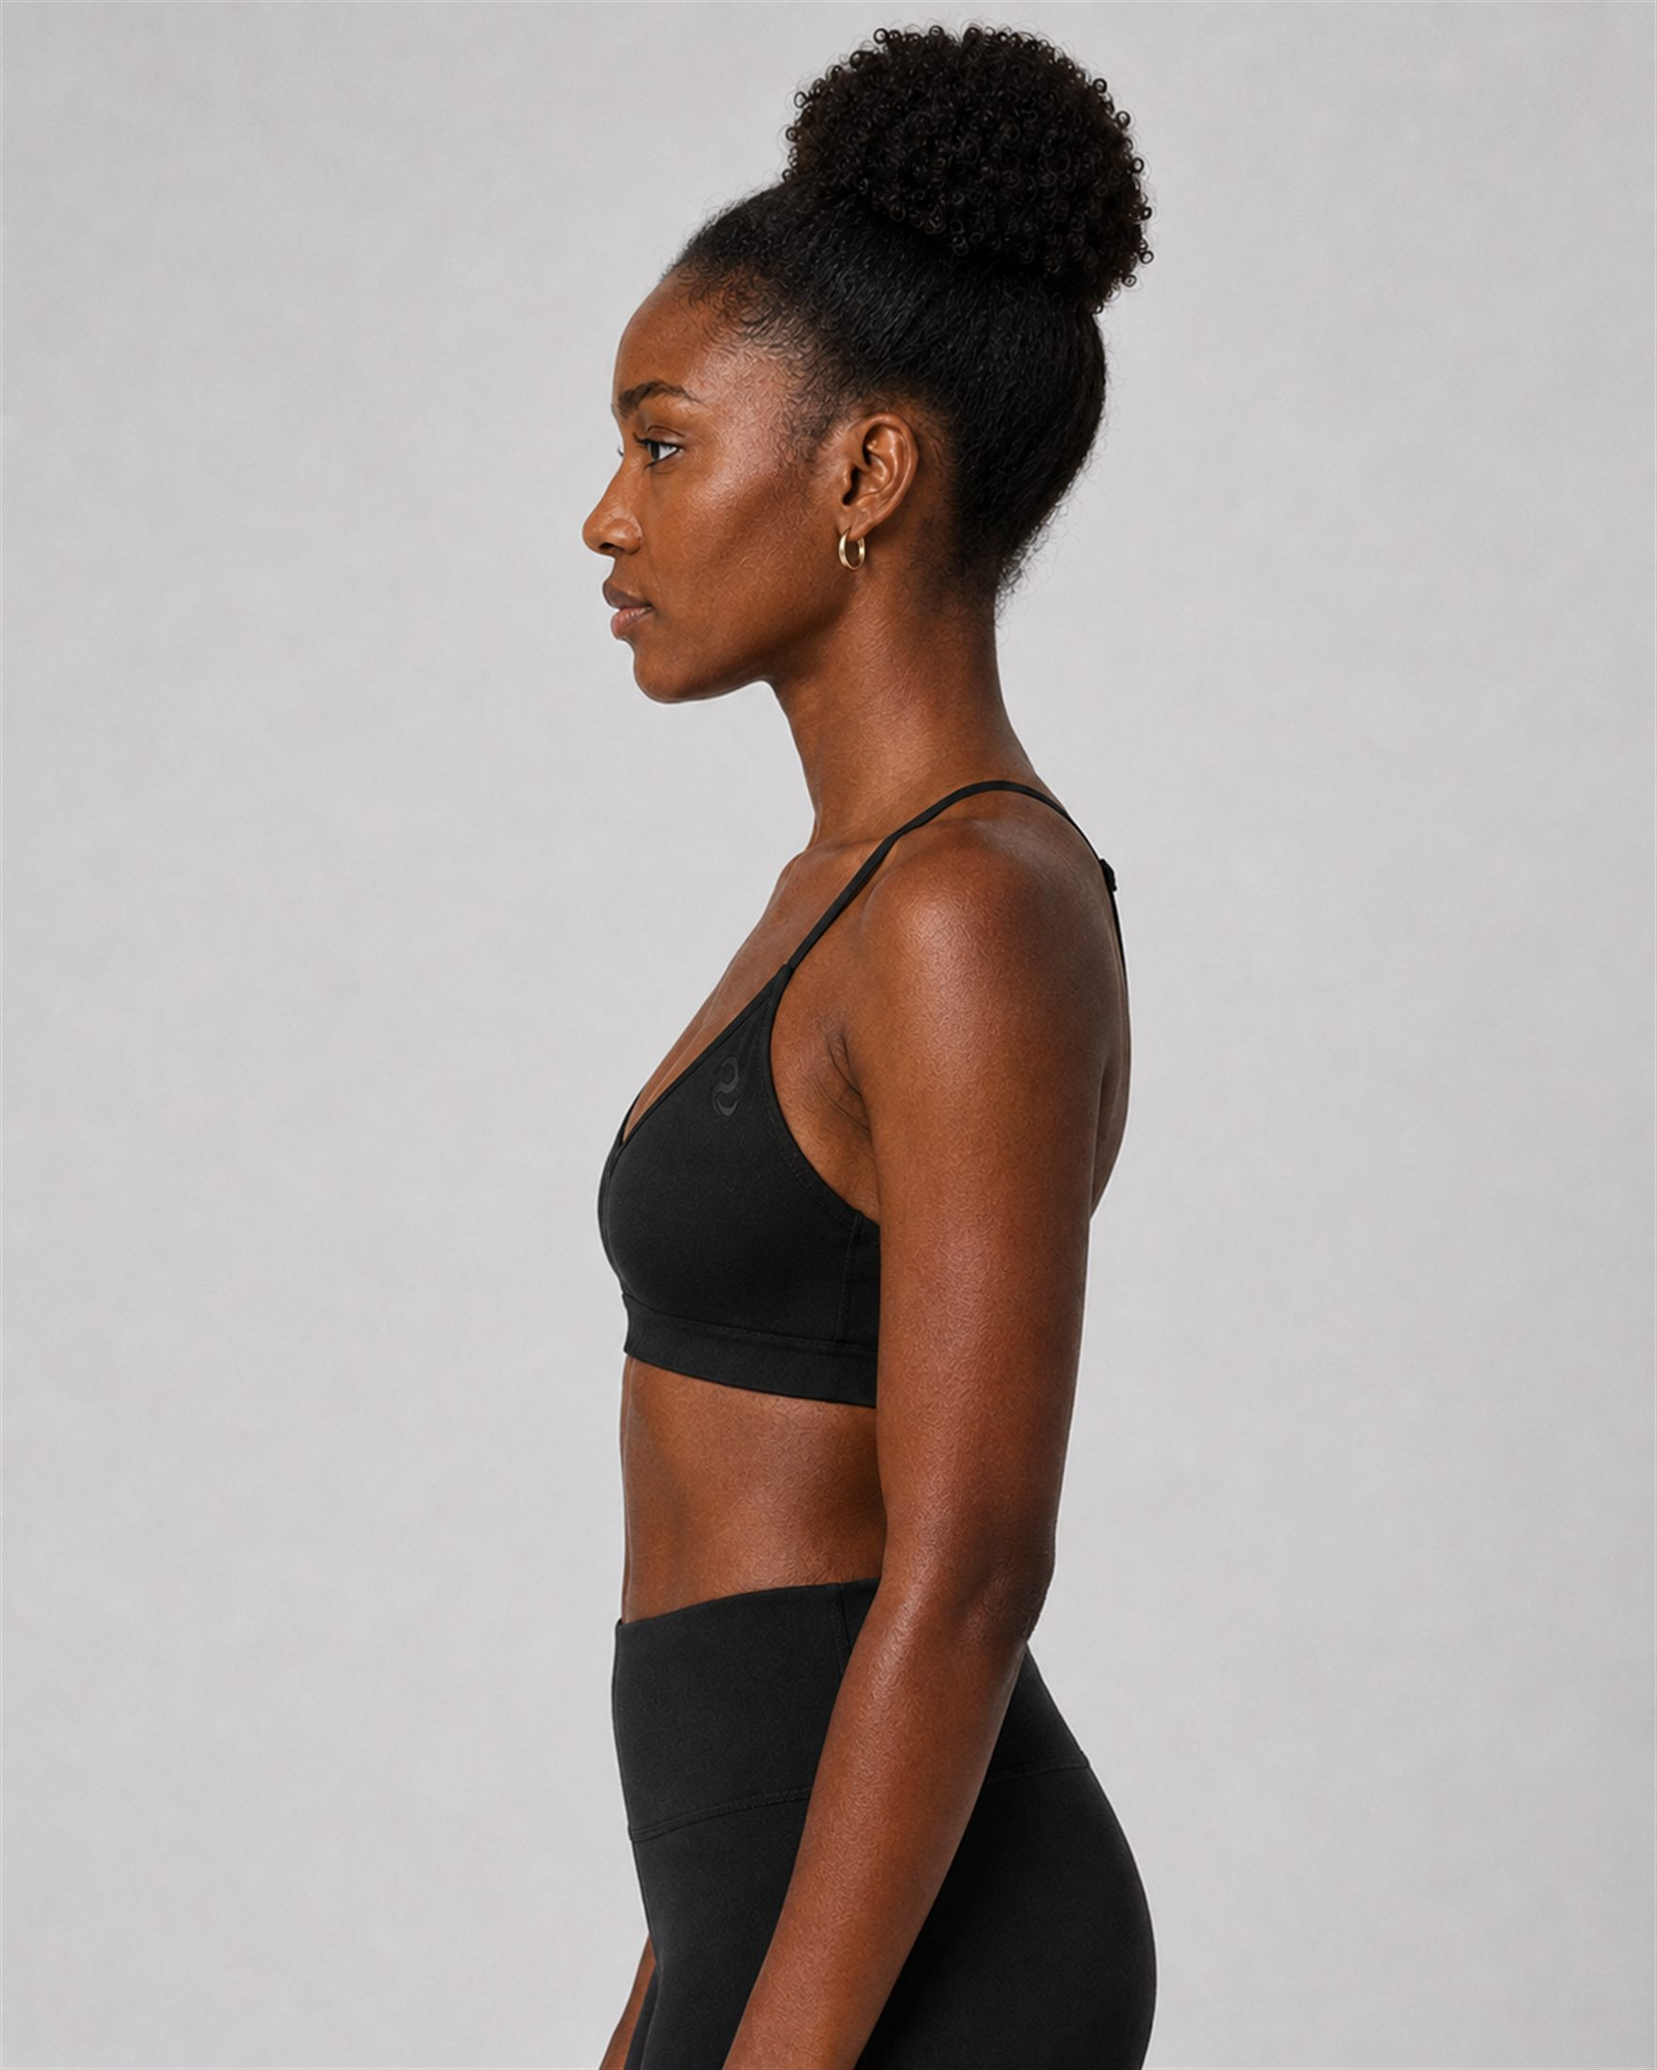
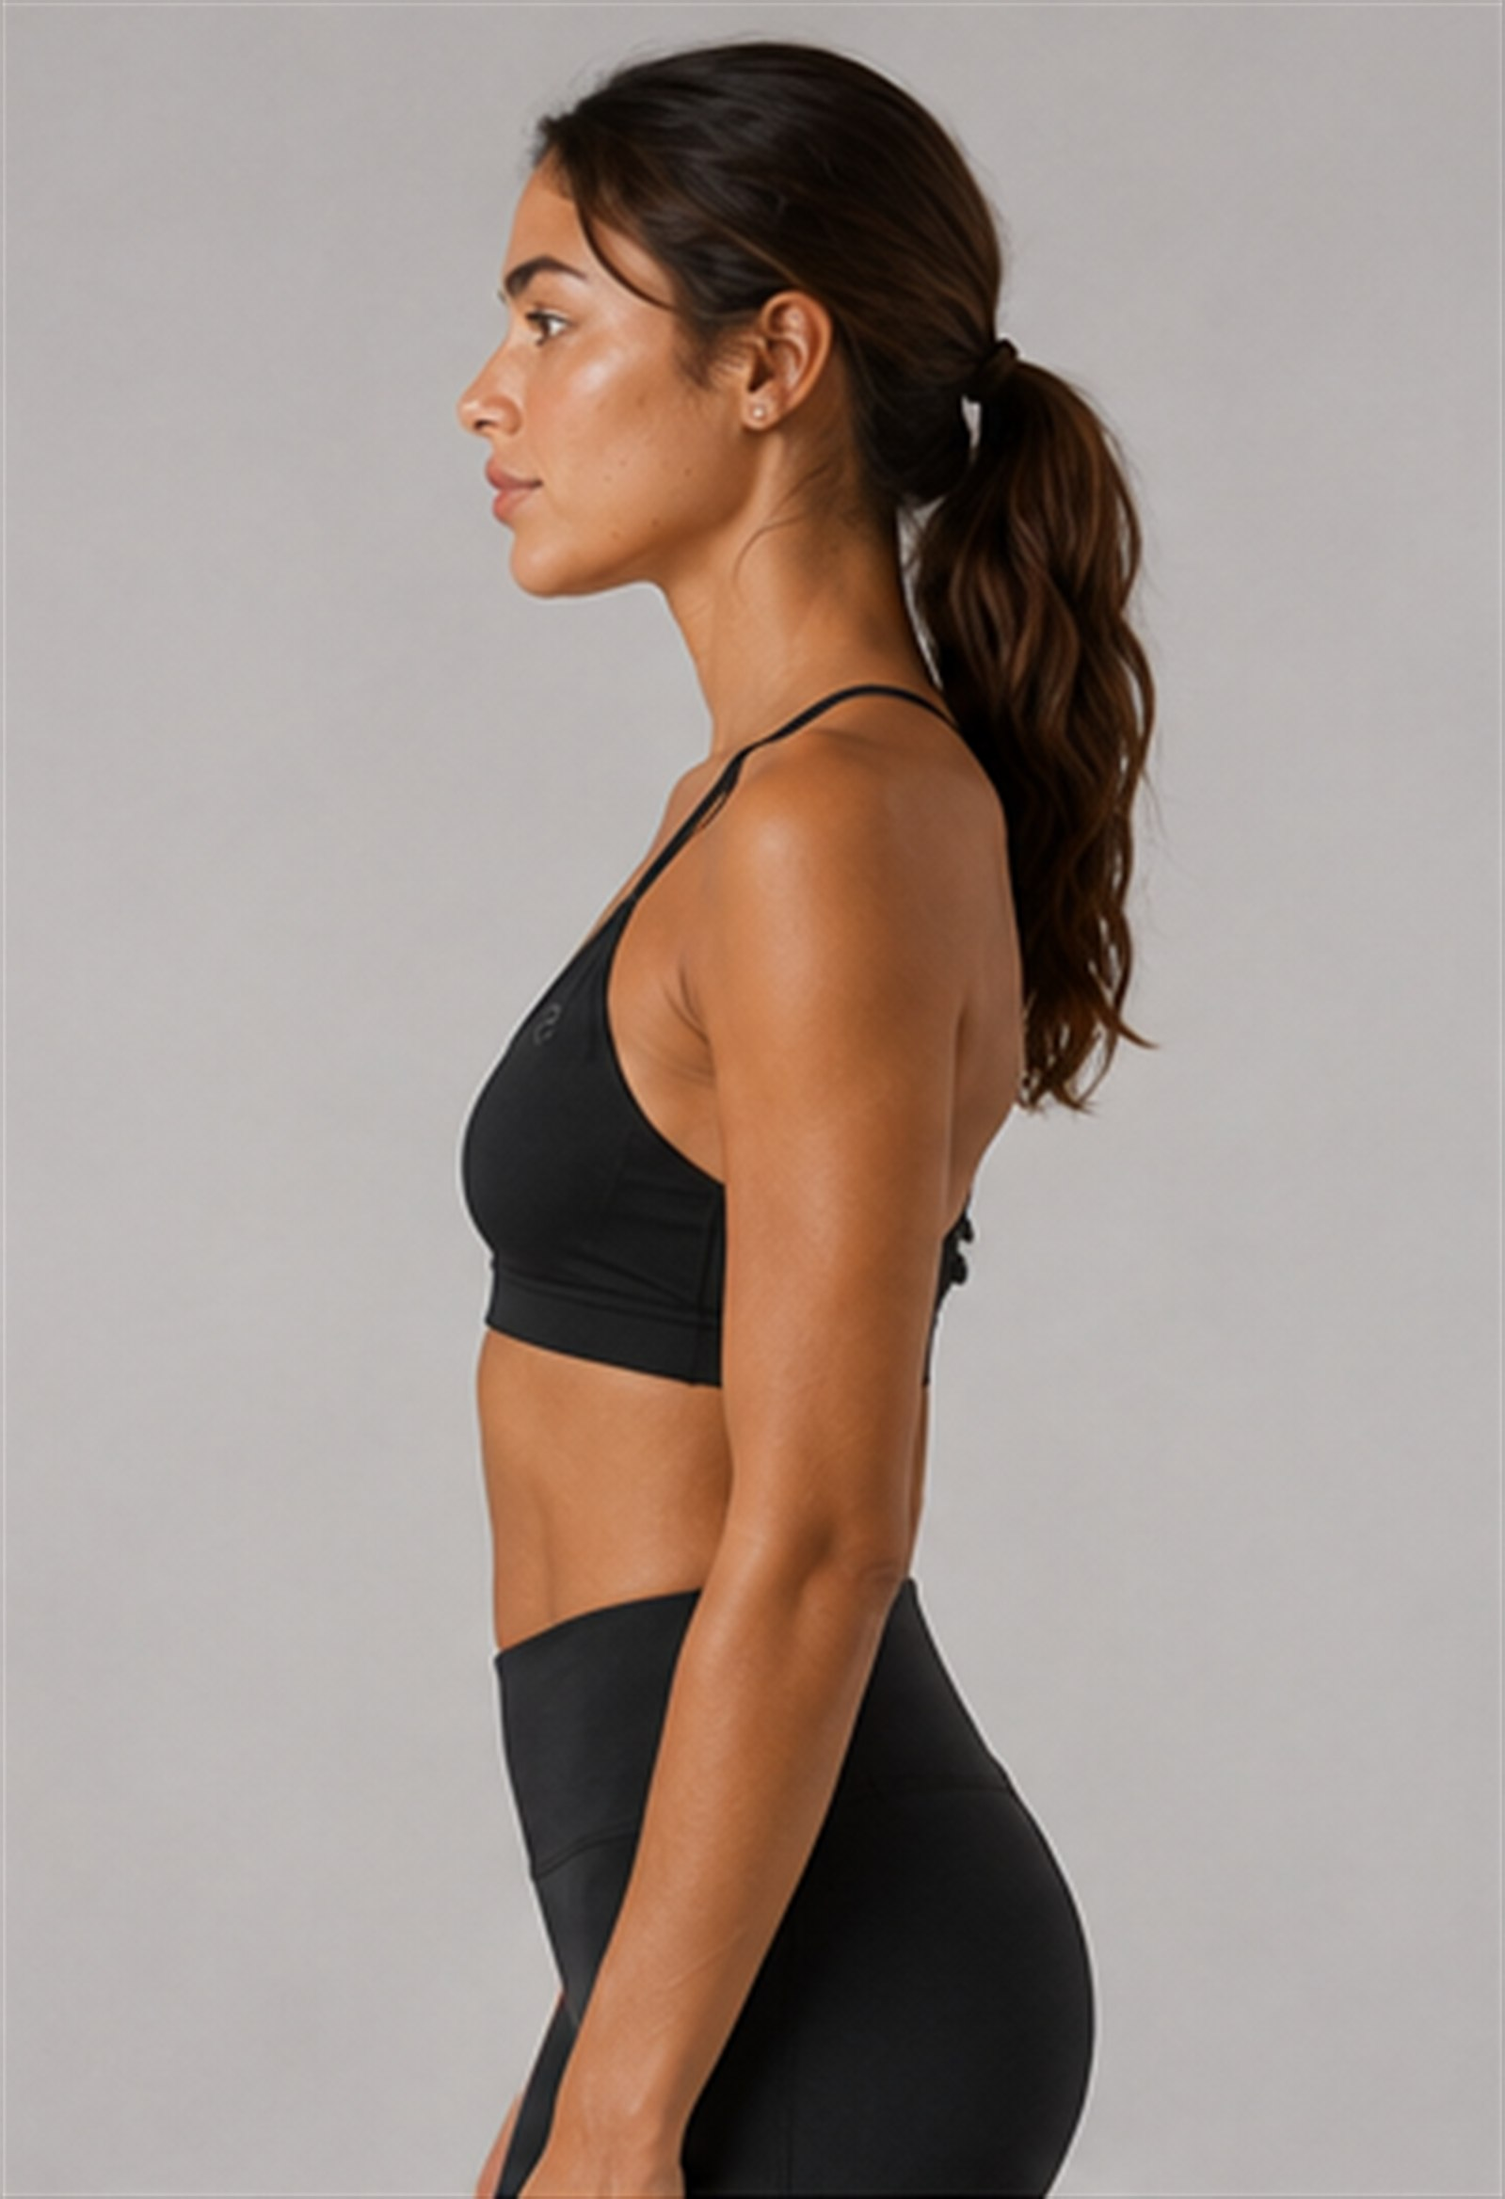
Low Impact Bra new final photos (4 views) + remove gender badges from shop grid
- Low Impact Bra: new final set, added front-angle view (front/front-angle/side/back)
- Removed Women's/Men's/Unisex pill badges from all 13 product cards

diff --git a/collections.html b/collections.html
@@ -137,7 +137,6 @@
         <div class="relative" style="aspect-ratio:3/4;overflow:hidden;background:#f3f4f6;">
           <img src="images/jacket-w.jpg" alt="Women's Jacket" style="width:100%;height:100%;object-fit:cover;object-position:center;display:block;">
           <img src="images/jacket-w-front-angle.jpg" alt="" aria-hidden="true" class="card-hover-img">
-          <span style="position:absolute;top:12px;left:12px;background:rgba(255,255,255,.9);color:#374151;font-size:11px;font-weight:500;padding:3px 8px;border-radius:20px">Women's</span>
         </div>
         <div class="p-4">
           <p class="text-base font-semibold text-black mt-0.5">Jacket</p>
@@ -164,7 +163,6 @@
       <div class="prod-card fu d1" data-gender="men">
         <div class="relative" style="aspect-ratio:3/4;overflow:hidden;background:#f3f4f6;">
           <img src="images/quarter-zip-m.jpg" alt="Men's Quarter Zip" style="width:100%;height:100%;object-fit:cover;object-position:center;display:block;">
-          <span style="position:absolute;top:12px;left:12px;background:rgba(255,255,255,.9);color:#374151;font-size:11px;font-weight:500;padding:3px 8px;border-radius:20px">Men's</span>
         </div>
         <div class="p-4">
           <p class="text-base font-semibold text-black mt-0.5">Quarter Zip</p>
@@ -192,7 +190,6 @@
         <div class="relative" style="aspect-ratio:3/4;overflow:hidden;background:#f3f4f6;">
           <img src="images/tshirt-w.jpg" alt="Women's T-Shirt" style="width:100%;height:100%;object-fit:cover;object-position:center;display:block;">
           <img src="images/tshirt-w-front-angle.jpg" alt="" aria-hidden="true" class="card-hover-img">
-          <span style="position:absolute;top:12px;left:12px;background:rgba(255,255,255,.9);color:#374151;font-size:11px;font-weight:500;padding:3px 8px;border-radius:20px">Women's</span>
         </div>
         <div class="p-4">
           <p class="text-base font-semibold text-black mt-0.5">T-Shirt</p>
@@ -220,7 +217,6 @@
         <div class="relative" style="aspect-ratio:3/4;overflow:hidden;background:#f3f4f6;">
           <img src="images/tshirt-m.jpg" alt="Men's T-Shirt" style="width:100%;height:100%;object-fit:cover;object-position:center;display:block;">
           <img src="images/tshirt-m-side.jpg" alt="" aria-hidden="true" class="card-hover-img">
-          <span style="position:absolute;top:12px;left:12px;background:rgba(255,255,255,.9);color:#374151;font-size:11px;font-weight:500;padding:3px 8px;border-radius:20px">Men's</span>
         </div>
         <div class="p-4">
           <p class="text-base font-semibold text-black mt-0.5">T-Shirt</p>
@@ -248,7 +244,6 @@
         <div class="relative" style="aspect-ratio:3/4;overflow:hidden;background:#f3f4f6;">
           <img src="images/running-leggings-w.jpg" alt="Women's Performance Leggings" style="width:100%;height:100%;object-fit:cover;object-position:center;display:block;">
           <img src="images/running-leggings-w-full-back.jpg" alt="" aria-hidden="true" class="card-hover-img">
-          <span style="position:absolute;top:12px;left:12px;background:rgba(255,255,255,.9);color:#374151;font-size:11px;font-weight:500;padding:3px 8px;border-radius:20px">Women's</span>
         </div>
         <div class="p-4">
           <p class="text-base font-semibold text-black mt-0.5">Performance Leggings</p>
@@ -276,7 +271,6 @@
         <div class="relative" style="aspect-ratio:3/4;overflow:hidden;background:#f3f4f6;">
           <img src="images/flared-leggings-w.jpg" alt="Flared Leggings" style="width:100%;height:100%;object-fit:cover;object-position:center;display:block;">
           <img src="images/flared-leggings-w-back.jpg" alt="" aria-hidden="true" class="card-hover-img">
-          <span style="position:absolute;top:12px;left:12px;background:rgba(255,255,255,.9);color:#374151;font-size:11px;font-weight:500;padding:3px 8px;border-radius:20px">Women's</span>
         </div>
         <div class="p-4">
           <p class="text-base font-semibold text-black mt-0.5">Flared Leggings</p>
@@ -303,7 +297,6 @@
       <div class="prod-card fu d2" data-gender="men">
         <div class="relative" style="aspect-ratio:3/4;overflow:hidden;background:#f3f4f6;">
           <img src="images/shorts-m.jpg" alt="Men's Shorts" style="width:100%;height:100%;object-fit:cover;object-position:center;display:block;">
-          <span style="position:absolute;top:12px;left:12px;background:rgba(255,255,255,.9);color:#374151;font-size:11px;font-weight:500;padding:3px 8px;border-radius:20px">Men's</span>
         </div>
         <div class="p-4">
           <p class="text-base font-semibold text-black mt-0.5">Shorts</p>
@@ -330,7 +323,6 @@
       <div class="prod-card fu d3" data-gender="men">
         <div class="relative" style="aspect-ratio:3/4;overflow:hidden;background:#f3f4f6;">
           <img src="images/training-pants-m.jpg" alt="Training Pants" style="width:100%;height:100%;object-fit:cover;object-position:center;display:block;">
-          <span style="position:absolute;top:12px;left:12px;background:rgba(255,255,255,.9);color:#374151;font-size:11px;font-weight:500;padding:3px 8px;border-radius:20px">Men's</span>
         </div>
         <div class="p-4">
           <p class="text-base font-semibold text-black mt-0.5">Training Pants</p>
@@ -358,7 +350,6 @@
         <div class="relative" style="aspect-ratio:3/4;overflow:hidden;background:#f3f4f6;">
           <img src="images/high-impact-bra.jpg" alt="High Impact Sports Bra" style="width:100%;height:100%;object-fit:cover;object-position:center;display:block;">
           <img src="images/high-impact-bra-back.jpg" alt="" aria-hidden="true" class="card-hover-img">
-          <span style="position:absolute;top:12px;left:12px;background:rgba(255,255,255,.9);color:#374151;font-size:11px;font-weight:500;padding:3px 8px;border-radius:20px">Women's</span>
         </div>
         <div class="p-4">
           <p class="text-base font-semibold text-black mt-0.5">High Impact Sports Bra</p>
@@ -386,7 +377,6 @@
         <div class="relative" style="aspect-ratio:3/4;overflow:hidden;background:#f3f4f6;">
           <img src="images/low-impact-bra.jpg" alt="Low Impact Sports Bra" style="width:100%;height:100%;object-fit:cover;object-position:center;display:block;">
           <img src="images/low-impact-bra-side.jpg" alt="" aria-hidden="true" class="card-hover-img">
-          <span style="position:absolute;top:12px;left:12px;background:rgba(255,255,255,.9);color:#374151;font-size:11px;font-weight:500;padding:3px 8px;border-radius:20px">Women's</span>
         </div>
         <div class="p-4">
           <p class="text-base font-semibold text-black mt-0.5">Low Impact Sports Bra</p>
@@ -413,7 +403,6 @@
       <div class="prod-card fu d2" data-gender="unisex">
         <div class="relative" style="aspect-ratio:1/1;overflow:hidden;background:#f3f4f6;">
           <img src="images/ankle-socks.jpg" alt="Ankle Socks" style="width:100%;height:100%;object-fit:cover;object-position:center;display:block;">
-          <span style="position:absolute;top:12px;left:12px;background:rgba(255,255,255,.9);color:#374151;font-size:11px;font-weight:500;padding:3px 8px;border-radius:20px">Unisex</span>
         </div>
         <div class="p-4">
           <p class="text-base font-semibold text-black mt-0.5">Ankle Socks</p>
@@ -436,7 +425,6 @@
       <div class="prod-card fu d3" data-gender="unisex">
         <div class="relative" style="aspect-ratio:1/1;overflow:hidden;background:#f3f4f6;">
           <img src="images/lifestyle-cap.jpg" alt="Lifestyle Cap" style="width:100%;height:100%;object-fit:cover;object-position:center;display:block;">
-          <span style="position:absolute;top:12px;left:12px;background:rgba(255,255,255,.9);color:#374151;font-size:11px;font-weight:500;padding:3px 8px;border-radius:20px">Unisex</span>
         </div>
         <div class="p-4">
           <p class="text-base font-semibold text-black mt-0.5">Lifestyle Cap</p>
@@ -459,7 +447,6 @@
       <div class="prod-card fu" data-gender="unisex">
         <div class="relative" style="aspect-ratio:1/1;overflow:hidden;background:#f3f4f6;">
           <img src="images/gym-bag.jpg" alt="30L Gym Bag" style="width:100%;height:100%;object-fit:cover;object-position:center;display:block;">
-          <span style="position:absolute;top:12px;left:12px;background:rgba(255,255,255,.9);color:#374151;font-size:11px;font-weight:500;padding:3px 8px;border-radius:20px">Unisex</span>
         </div>
         <div class="p-4">
           <p class="text-base font-semibold text-black mt-0.5">30L Gym Bag</p>

diff --git a/product.html b/product.html
@@ -315,7 +315,7 @@ const PRODUCTS={
   'running-leggings-w':{name:'Performance Leggings',gender:"Women's",price:'KES 5,500',priceVal:5500,image:'images/running-leggings-w.jpg',images:['images/running-leggings-w.jpg','images/running-leggings-w-side.jpg','images/running-leggings-w-full-front.jpg','images/running-leggings-w-full-back.jpg'],sizes:['S','M','L','XL','XXL'],desc:"Engineered for road and trail. A contoured waistband defines the line without compressing. A pattern-cut panel lifts the silhouette at the top of the glute, while graduated compression holds the line without flattening shape. Four-way stretch fabric. Flatlock seams.",details:['Contoured waistband — defines without compressing','Pattern-cut lift at the top of the glute','Graduated compression through thigh and core','Four-way stretch performance fabric','Flatlock seam construction',]},
   'flared-leggings-w':{name:'Flared Leggings',gender:"Women's",price:'KES 5,600',priceVal:5600,image:'images/flared-leggings-w.jpg',images:['images/flared-leggings-w.jpg','images/flared-leggings-w-back.jpg'],sizes:['S','M','L','XL','XXL'],tallSizes:['S (Tall)','M (Tall)','L (Tall)','XL (Tall)','XXL (Tall)'],desc:"Studio-ready with a relaxed straight-leg silhouette — loose from the waistband down through the leg. A high-rise contoured waistband defines the waistline and stays put through full range of motion. A pattern-cut panel lifts the silhouette at the top of the glute, while graduated compression holds the line without flattening shape. Buttery-soft four-way stretch fabric. Suited to yoga, pilates, barre and everyday wear. Also available in Tall lengths.",details:['High-rise contoured waistband — defines without compressing','Pattern-cut lift at the top of the glute','Graduated compression through thigh and core','Buttery-soft four-way stretch fabric','Relaxed straight-leg cut — loose from the waistband through the leg','Regular (34" inseam) — up to 5\'8" / 173cm · Tall (37" inseam) — 5\'9" / 175cm and above',]},
   'high-impact-bra':{name:'High Impact Sports Bra',gender:"Women's",price:'KES 4,950',priceVal:4950,image:'images/high-impact-bra.jpg',images:['images/high-impact-bra.jpg','images/high-impact-bra-back.jpg','images/high-impact-bra-front-angle.jpg','images/high-impact-bra-side.jpg'],sizes:['S','M','L','XL','XXL'],desc:"Maximum support for running, HIIT, and high-intensity training. Wide underband and reinforced straps keep everything locked in place. Moisture-wicking inner lining and removable padding.",details:['Maximum support rating','Wide reinforced underband','Adjustable back strap','Removable moulded padding','Moisture-wicking inner lining',]},
-  'low-impact-bra':{name:'Low Impact Sports Bra',gender:"Women's",price:'KES 4,950',priceVal:4950,image:'images/low-impact-bra.jpg',images:['images/low-impact-bra.jpg','images/low-impact-bra-side.jpg','images/low-impact-bra-back.jpg'],sizes:['S','M','L','XL','XXL'],desc:"Lightweight and breathable for yoga, pilates, stretching, and low-intensity sessions. Scoop neck with a clean racerback silhouette. Removable padding, soft-touch fabric.",details:['Light support rating','Racerback silhouette','Scoop neckline','Removable padding','Soft-touch four-way stretch fabric',]},
+  'low-impact-bra':{name:'Low Impact Sports Bra',gender:"Women's",price:'KES 4,950',priceVal:4950,image:'images/low-impact-bra.jpg',images:['images/low-impact-bra.jpg','images/low-impact-bra-front-angle.jpg','images/low-impact-bra-side.jpg','images/low-impact-bra-back.jpg'],sizes:['S','M','L','XL','XXL'],desc:"Lightweight and breathable for yoga, pilates, stretching, and low-intensity sessions. Scoop neck with a clean racerback silhouette. Removable padding, soft-touch fabric.",details:['Light support rating','Racerback silhouette','Scoop neckline','Removable padding','Soft-touch four-way stretch fabric',]},
   'jacket-w':{name:"Women's Jacket",gender:"Women's",price:'KES 7,500',priceVal:7500,image:'images/jacket-w.jpg',images:['images/jacket-w.jpg','images/jacket-w-front-angle.jpg','images/jacket-w-back-angle.jpg','images/jacket-w-back.jpg'],sizes:['S','M','L','XL','XXL'],desc:"A versatile training jacket built for warm-ups, cool-downs, and everything in between. Lightweight with a clean zip-front silhouette. Thumb holes, two side pockets, and a slightly relaxed fit.",details:['Full-length zip front','Thumb hole cuffs','Two side zip pockets','Relaxed training fit','Lightweight performance fabric',]},
   'tshirt-w':{name:"Women's T-Shirt",gender:"Women's",price:'KES 4,500',priceVal:4500,image:'images/tshirt-w.jpg',images:['images/tshirt-w.jpg','images/tshirt-w-front-angle.jpg','images/tshirt-w-back.jpg','images/tshirt-w-detail.jpg','images/tshirt-w-movement.jpg'],sizes:['S','M','L','XL','XXL'],desc:"A clean training tee built for movement. Lightweight moisture-wicking fabric, a relaxed fit that stays in place, and a slightly cropped hem. Wear it to the gym, on a run, or straight after.",details:['Moisture-wicking fabric','Relaxed fit with cropped hem','Crew neck','Flatlock shoulder seams',]},
   'tshirt-m':{name:"Men's T-Shirt",gender:"Men's",price:'KES 4,500',priceVal:4500,image:'images/tshirt-m.jpg',images:['images/tshirt-m.jpg','images/tshirt-m-side.jpg','images/tshirt-m-back.jpg'],sizes:['S','M','L','XL','XXL'],desc:"A training tee that does its job without getting in the way. Sweat-wicking fabric, a clean regular fit, and a slightly dropped hem. Equally at home in the gym or on the way there.",details:['Moisture-wicking fabric','Regular fit with dropped hem','Crew neck','Flatlock shoulder seams',]},
